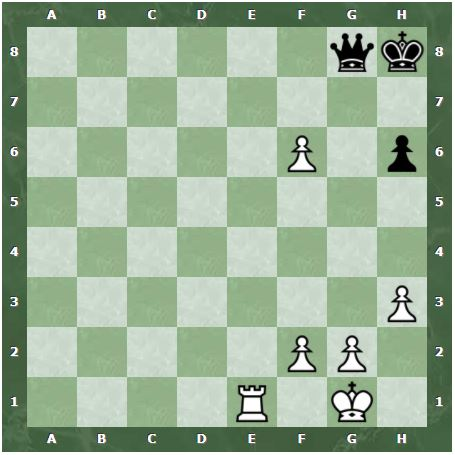
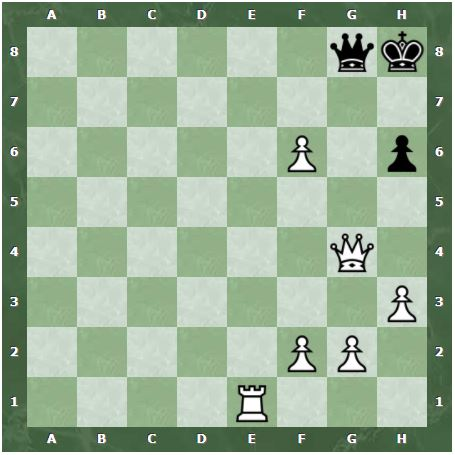
image updates

Changed region(s): [[0.7077, 0.8308, 0.8308, 0.9538], [0.7077, 0.4923, 0.8308, 0.6154]]

diff --git a/index.html b/index.html
@@ -169,7 +169,7 @@
 
                 <div class="separator"></div>
 
-                <p>In each of the 8 puzzles below it is White’s turn to move. Your job is to find the Checkmate in 2 moves! </p>
+                <p>In each of the 8 puzzles below it is White’s turn to move. Your job is to find the Checkmate in 2 moves! Hover your mouse over each puzzle to reveal the solution! </p>
 
             </div>
             <!-- Example row of columns -->
@@ -182,7 +182,7 @@
                     
                         <div class="project-overlay"></div>
                         <div class="project-content">
-                            <h5>SOLUTION</h5>
+                            <h5>Solution</h5>
                             <div class="project-separator"></div>
                             <p>White: Rook to e8</p>
                             <p>Black: Queen captures e8</p>
@@ -198,9 +198,11 @@
                     
                         <div class="project-overlay"></div>
                         <div class="project-content">
-                            <h5>PaperClips</h5>
+                            <h5>Solution</h5>
                             <div class="project-separator"></div>
-                            <h6>Branding</h6>
+                            <p>White: Rook to g5 (Check)</p>
+                            <p>Black: Rook captures g5</p>
+                            <p>White: Rook to f5 (Checkmate!)</p>
                         </div>
                     </div>
                 </div>
@@ -211,9 +213,11 @@
                     
                         <div class="project-overlay"></div>
                         <div class="project-content">
-                            <h5>PaperClips</h5>
+                            <h5>Solution</h5>
                             <div class="project-separator"></div>
-                            <h6>Branding</h6>
+                            <p>White: Bishop to a6</p>
+                            <p>Black: King to d3</p>
+                            <p>White: Bishop to d5 (Checkmate!)</p>
                         </div>
                     </div>
                 </div>
@@ -224,61 +228,71 @@
                     
                         <div class="project-overlay"></div>
                         <div class="project-content">
-                            <h5>PaperClips</h5>
+                            <h5>Solution</h5>
                             <div class="project-separator"></div>
-                            <h6>Branding</h6>
+                            <p>White: Knight to f6 (Check)</p>
+                            <p>Black: King to h6</p>
+                            <p>White: Bishop to f8 (Checkmate!)</p>
                         </div>
                     </div>
                 </div>
 
                 <div class="col-md-3 col-sm-6 col-xs-12">
                     <div class="project-item">
-                        <img src="assets/images/project/1.jpg" alt="" />
+                        <img src="assets/images/project/5.jpg" alt="" />
                     
                         <div class="project-overlay"></div>
                         <div class="project-content">
-                            <h5>PaperClips</h5>
+                            <h5>Solution</h5>
                             <div class="project-separator"></div>
-                            <h6>Branding</h6>
+                            <p>White: Queen to h7 (Check)</p>
+                            <p>Black: King captures h7</p>
+                            <p>White: Rook to h4 (Checkmate!)</p>
                         </div>
                     </div>
                 </div>
 
                 <div class="col-md-3 col-sm-6 col-xs-12">
                     <div class="project-item">
-                        <img src="assets/images/project/2.jpg" alt="" />
+                        <img src="assets/images/project/6.jpg" alt="" />
                     
                         <div class="project-overlay"></div>
                         <div class="project-content">
-                            <h5>PaperClips</h5>
+                            <h5>Solution</h5>
                             <div class="project-separator"></div>
-                            <h6>Branding</h6>
+                            <p>White: King to a4</p>
+                            <p>Black: Bishop captures c6</p>
+                            <p>White: Rook to b5 (Checkmate!)</p>
                         </div>
                     </div>
                 </div>
 
                 <div class="col-md-3 col-sm-6 col-xs-12">
                     <div class="project-item">
-                        <img src="assets/images/project/3.jpg" alt="" />
+                        <img src="assets/images/project/7.jpg" alt="" />
                     
                         <div class="project-overlay"></div>
                         <div class="project-content">
-                            <h5>PaperClips</h5>
+                            <h5>Solution</h5>
                             <div class="project-separator"></div>
-                            <h6>Branding</h6>
+                            <p>White: Bishop to c6</p>
+                            <p>Black: Rook captures c6</p>
+                            <p>White: Knight to e4 (Checkmate!)</p>
                         </div>
                     </div>
                 </div>
 
                 <div class="col-md-3 col-sm-6 col-xs-12">
                     <div class="project-item">
-                        <img src="assets/images/project/4.jpg" alt="" />
+                        <img src="assets/images/project/8.jpg" alt="" />
                     
                         <div class="project-overlay"></div>
                         <div class="project-content">
-                            <h5>PaperClips</h5>
+                            <h5>Solution</h5>
                             <div class="project-separator"></div>
-                            <h6>Branding</h6>
+                            <p>White: Queen to d6</p>
+                            <p>Black: Pawn captures d6</p>
+                            <p>White: Rook to c1 (Checkmate!)</p>
                         </div>
                     </div>
                 </div>
@@ -486,7 +500,7 @@
         </div> <!-- cd-timeline -->
 
     </section>
-
+    
 
     <section id="contact" class="sections lightbg">
         <div class="container">
